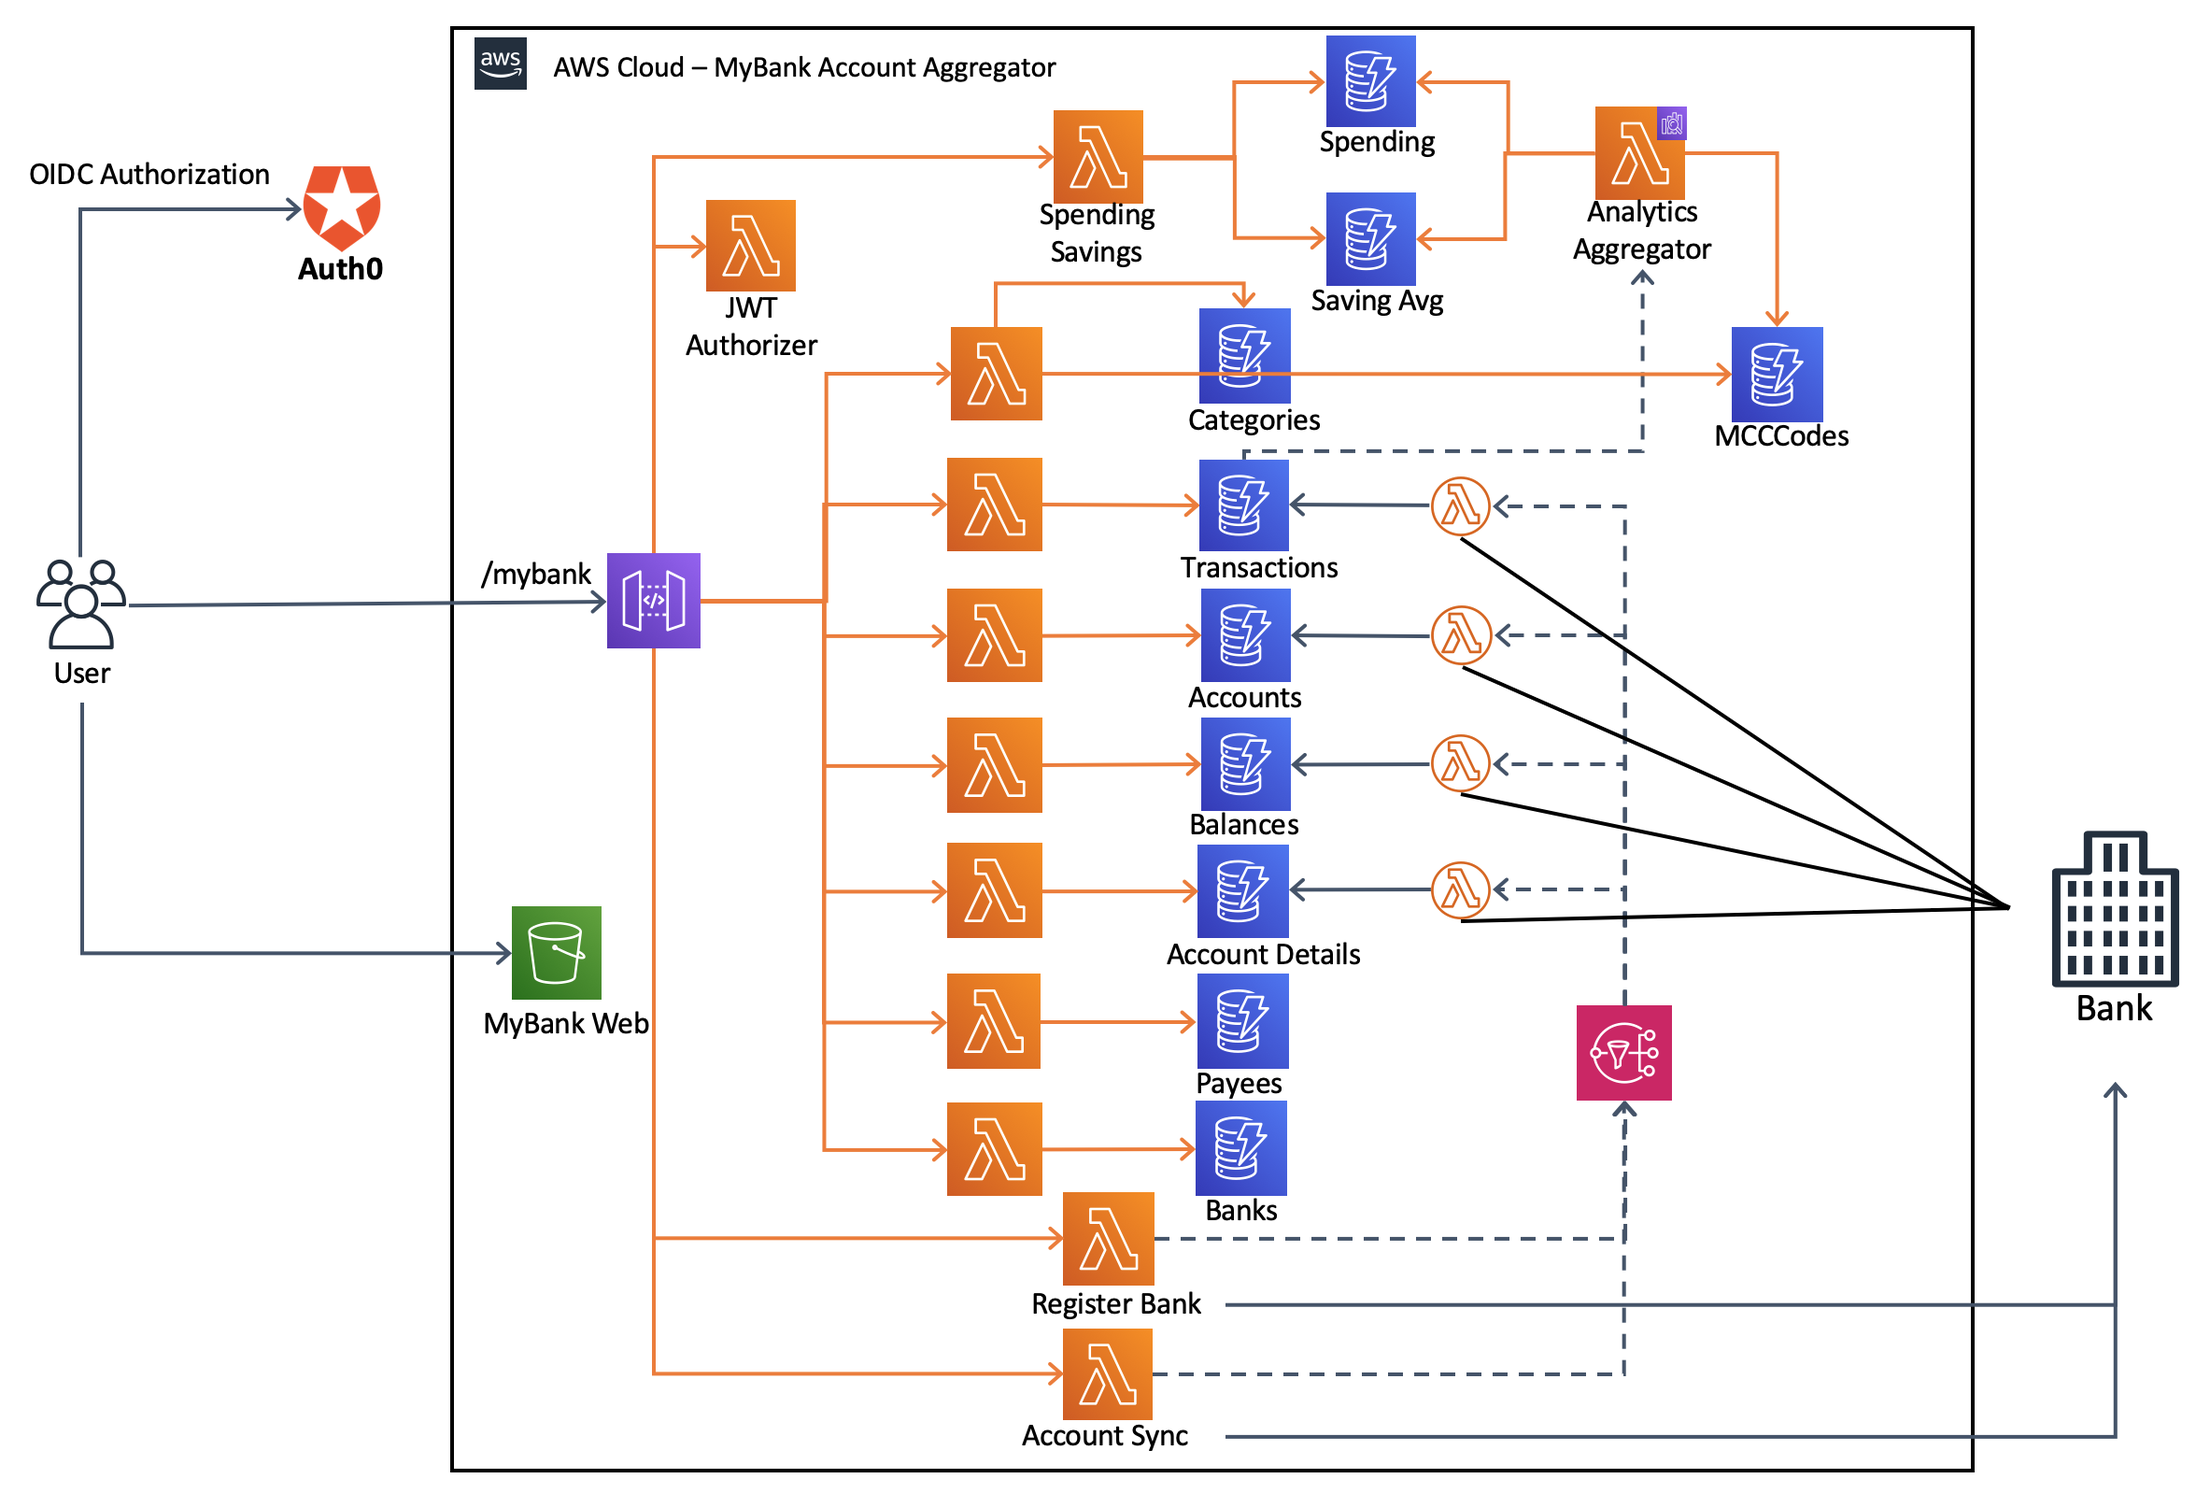
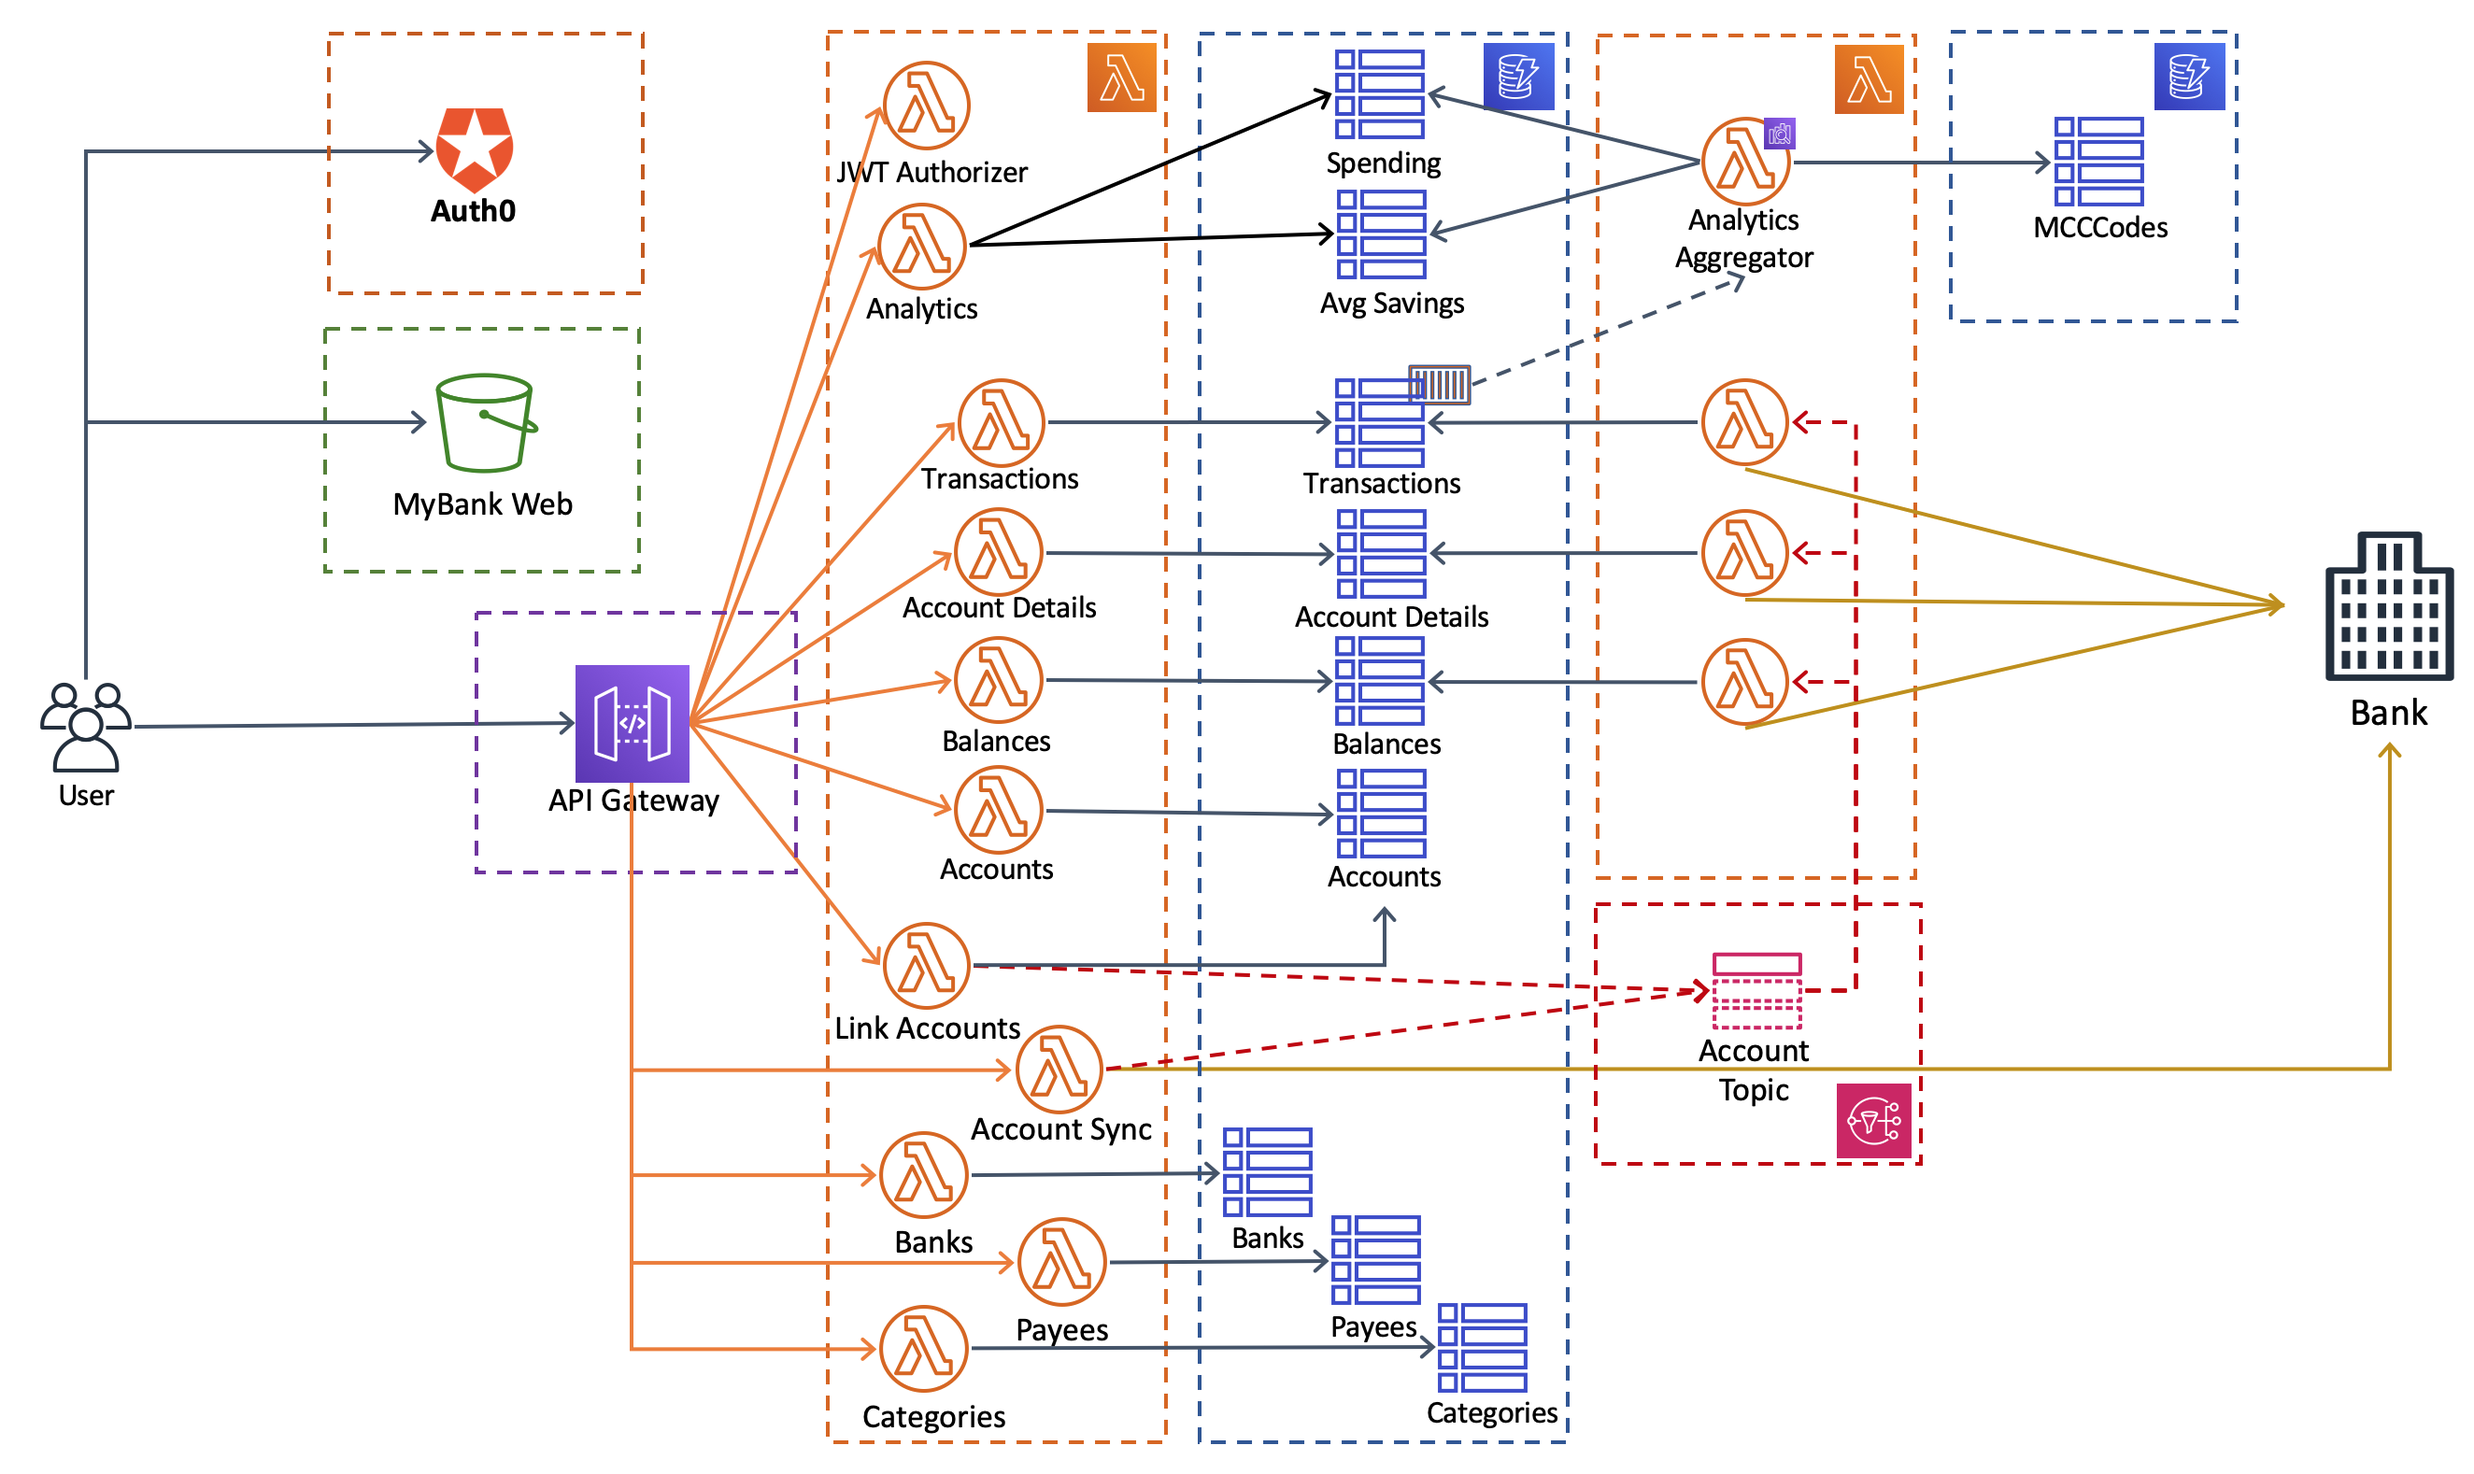
revised link account

diff --git a/src/pages/Dashboard/Dashboard.vue b/src/pages/Dashboard/Dashboard.vue
@@ -9,15 +9,16 @@
       <h1 class="page-title">
         My Dashboard
         <a
-          v-if="hasAccountsLinked"
           href="#"
+          v-b-modal.modal-scrollable
+          @click="showModal"
           class="float-right btn btn-outline-primary"
         >
           <i class="fa fa-edit mr-2"></i>Link Account
         </a>
         <a href data-widgster="load" class="small text-gray-light la la-refresh"></a>
       </h1>
-      <b-row v-if="hasAccountsLinked">
+      <b-row v-if="hasAccounts">
         <b-col xs="4">
           <div class="pb-xlg h-100">
             <Widget class="h-100 mb-0" title="TOTAL BALANCE">
@@ -62,7 +63,7 @@
         </b-col>
       </b-row>
     </div>
-    <div v-if="hasAccountsLinked" class="col-md-12 col-lg-10">
+    <div class="col-md-12 col-lg-10">
       <b-row v-for="(accounts, category) in accountsByCategory" :key="category">
         <b-col>
           <h3>{{getCategoryName(category)}}</h3>
@@ -100,24 +101,17 @@
         </b-col>
       </b-row>
     </div>
-    <div v-if="!hasAccountsLinked" class="col-md-12 col-lg-10">
-      <div
-        class="card border-0 mb-xlg background-cover text-white"
-        :style="'background-image: url(' + require('../../assets/links.jpg') + ');'"
-      >
-        <div class="card-body">
-          <h3 class="mt-lg">Link Account</h3>
-          <p class="w-75">
-            To get started click on the button Link Account to add one or more accounts from your bank.
-            After you have chosen the accounts and confirmed consent, your account details will be transfered
-            to MyBank.
-          </p>
-          <button type="button" class="btn btn-rounded-f mt-lg btn-outline">
-            <i class="fa fa-edit mr-2"></i>Link Account
-          </button>
-        </div>
+    <div v-if="!hasAccounts" class="col-md-12 col-lg-10">
+      <div class="jumbotron">
+        <h1 class="display-5">Thank you for choosing MyBank!!!</h1>
+        <p class="lead">
+          To get started click on the button Link Account to add one or more accounts from your bank.
+          After you have chosen the accounts and confirmed consent, your accounts including transactions
+          will be loaded into MyBank.
+        </p>
       </div>
     </div>
+    <BanksModal ref="banksModal"/>
   </div>
 </template>
 
@@ -126,9 +120,10 @@ import Vue from "vue";
 import Widget from "@/components/Widget/Widget";
 import AverageSavingsChart from "./AverageSavingsChart";
 import SpendingsChart from "./SpendingsChart";
+import BanksModal from "./BanksModal";
 import moment from "moment";
 import _ from "lodash";
-import { mapGetters } from "vuex";
+import { mapGetters, mapState } from "vuex";
 
 Vue.filter("formatDate", function(value) {
   if (value) {
@@ -138,8 +133,16 @@ Vue.filter("formatDate", function(value) {
 
 export default {
   name: "Dashboard",
-  components: { Widget, AverageSavingsChart, SpendingsChart },
+  components: { Widget, AverageSavingsChart, SpendingsChart, BanksModal },
+  data() {
+    return {
+      
+    };
+  },
   methods: {
+    showModal() {
+      this.$refs.banksModal.show = true;
+    },
     getAccountDetails(account) {
       //TODO: externalise this in a key-value pair map.
       if (account.productCategory === "TRANS_AND_SAVINGS_ACCOUNTS") {
@@ -170,7 +173,6 @@ export default {
       }
       return "";
     },
-
     getCurrentBalance(balance) {
       if (balance.balanceUType === "deposit") {
         return balance.deposit.currentBalance.amount;
@@ -180,26 +182,19 @@ export default {
       return "";
     }
   },
-  mounted() {
+  created() {
     this.$store.dispatch("accounts/loadAccountSummary");
     this.$store.dispatch("accounts/loadAccountBalances");
   },
   computed: {
-    ...mapGetters("accounts", [
+    ...mapGetters("accounts", ["accountsByCategory"]),
+    ...mapState("accounts", [
+      "hasAccounts",
       "balances",
       "totalBalance",
       "totalAvailableBalance",
-      "accountsByCategory",
       "categories"
-    ]),
-    hasAccountsLinked() {
-      for (var key in this.accountsByCategory) {
-        if (this.accountsByCategory.hasOwnProperty(key)) {
-          return true;
-        }
-      }
-      return false;
-    }
+    ])
   }
 };
 </script>

diff --git a/src/pages/Dashboard/BanksModal.vue b/src/pages/Dashboard/BanksModal.vue
@@ -1,0 +1,71 @@
+
+<template>
+  <!-- Modal Component -->
+  <b-modal id="modal-scrollable" scrollable title="Select a Bank" v-model="show">
+    <div class="widgetBody widget-body p-0">
+      <div class="list-group-item list-group list-group-lg">
+        <a
+          :href="getOIDCAuthorizeUrl(bank)"
+          class="list-group-item"
+          v-for="bank in banks"
+          :key="bank.code"
+        >
+          <span class="thumb-sm mr notificationIcon">
+            <img
+              :src="require('../../assets/banks/' + bank.logo_url)"
+              alt="..."
+              class="rounded-circle"
+            >
+          </span>
+          <div>
+            <h6 class="m-0">{{bank.name}}</h6>
+            <small class="text-muted">{{bank.url}}</small>
+          </div>
+        </a>
+      </div>
+    </div>
+    <div slot="modal-footer" class="w-100">
+      <b-button variant="primary" size="sm" class="float-right" @click="show=false">Close</b-button>
+    </div>
+  </b-modal>
+</template>
+<script>
+import Vue from "vue";
+import axios from "axios";
+
+export default {
+  name: "BanksModal",
+  data() {
+    return {
+      show: false,
+      banks: []
+    };
+  },
+  methods: {
+    getOIDCAuthorizeUrl(bank) {
+      if (bank && bank.oidc_config && bank.oidc_config.metadata) {
+        const meta = bank.oidc_config.metadata;
+        var auth_url =
+          meta.authorization_endpoint +
+          "?response_type=code&scope=" +
+          bank.oidc_config.scope;
+        auth_url = auth_url + "&client_id=" + bank.oidc_config.client_id;
+        auth_url =
+          auth_url + "&state=0&redirect_uri=" + bank.oidc_config.redirect_uri;
+        auth_url = auth_url + "&state=0&nonce=" + "random_value";
+
+        console.log(auth_url);
+        return auth_url;
+      }
+    }
+  },
+  created() {
+    axios
+      .get("/banks")
+      .then(r => r.data)
+      .then(banks => {
+        this.banks = banks;
+      });
+  }
+};
+</script>

diff --git a/src/store/modules/accounts.js b/src/store/modules/accounts.js
@@ -40,13 +40,11 @@ const state = {
   totalBalance: 0,
   totalAvailableBalance: 0,
   account: {},
-  balance: 0
+  balance: 0,
+  hasAccounts: false
 }
 
 const getters = {
-  categories: state => {
-    return state.categories;
-  },
   accountsByCategory: state => {
     var result = _.reduce(state.accounts, function (result, account) {
       (result[account.productCategory] || (result[account.productCategory] = [])).push(account);
@@ -56,18 +54,6 @@ const getters = {
   },
   accountsList: state => {
     return state.accounts;
-  },
-  account: state => {
-    return state.account;
-  },
-  balances: state => {
-    return state.balances;
-  },
-  totalBalance: state => {
-    return state.totalBalance;
-  },
-  totalAvailableBalance: state => {
-    return state.totalAvailableBalance;
   }
 }
 
@@ -89,6 +75,11 @@ const actions = {
 const mutations = {
   SET_ACCOUNTS(state, accounts) {
     state.accounts = accounts.data.accounts;
+    if (state.accounts && state.accounts.length > 0) {
+      state.hasAccounts = true;
+    }else{
+      state.hasAccounts = false;
+    }
   },
   SET_ACCOUNT(state, account) {
     state.account = account.data;

diff --git a/src/pages/Account/AccountDetails.vue b/src/pages/Account/AccountDetails.vue
@@ -100,7 +100,7 @@
 <script>
 import Vue from "vue";
 import Widget from "@/components/Widget/Widget";
-import { mapGetters } from "vuex";
+import { mapState } from "vuex";
 import TransactionTable from "./TransactionTable.vue";
 import moment from "moment";
 import axios from "axios";
@@ -142,7 +142,7 @@ export default {
       this.$router.push({ path: "/app/transfers/" + this.accountId });
     }
   },
-  computed: mapGetters("accounts", ["account", "balances"])
+  computed: mapState("accounts", ["account", "balances"])
 };
 </script>
 <style src="./AccountDetails.scss" lang="scss" scoped />

diff --git a/src/pages/Account/CreditCardDetails.vue b/src/pages/Account/CreditCardDetails.vue
@@ -94,7 +94,7 @@
 </template>
 <script>
 import Widget from "@/components/Widget/Widget";
-import { mapGetters } from "vuex";
+import { mapState } from "vuex";
 import TransactionTable from "./TransactionTable.vue";
 
 export default {
@@ -115,7 +115,7 @@ export default {
     }
   },
   methods: {},
-  computed: mapGetters("accounts", ["account", "balances"])
+  computed: mapState("accounts", ["account", "balances"])
 };
 </script>
 <style src="./AccountDetails.scss" lang="scss" scoped />

diff --git a/src/styles/_overrides.scss b/src/styles/_overrides.scss
@@ -576,12 +576,6 @@ h6,
   padding: 20px;
 }
 
-// Modal
-
-.modal-body {
-  background: $gray-200;
-}
-
 // Navs
 // --------------------------------------------------
 

diff --git a/src/pages/Dashboard/Dashboard.scss b/src/pages/Dashboard/Dashboard.scss
@@ -15,3 +15,5 @@ table {
     }
   }
 }
+
+[v-cloak] {display: none}
